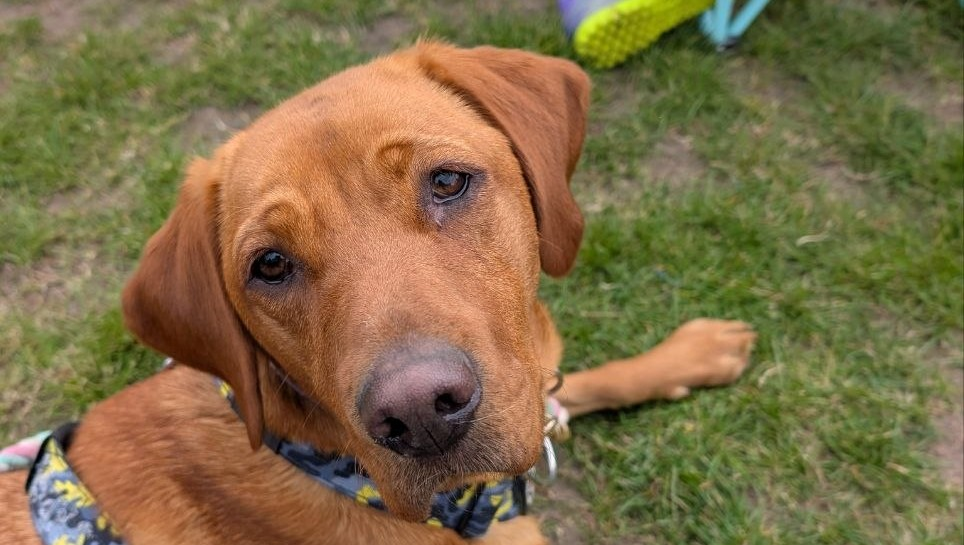
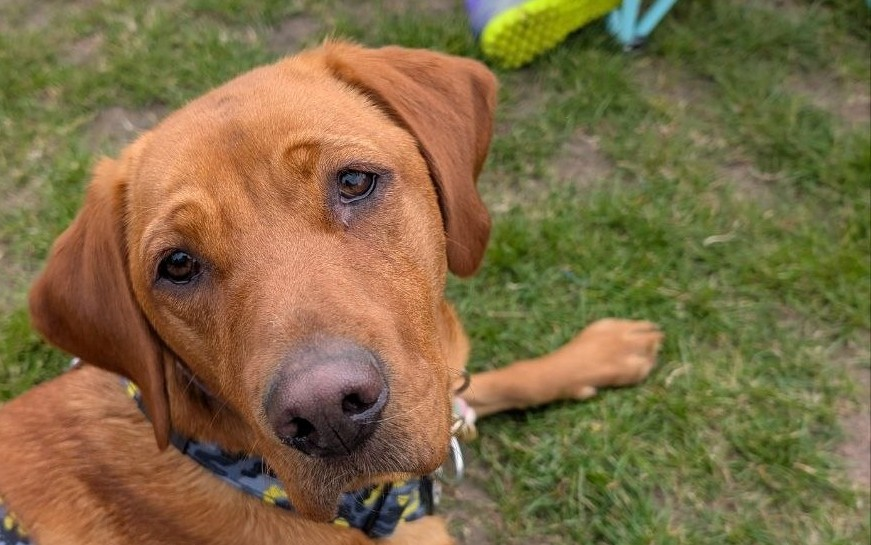
Mobile formatting updated on Rosa Page

diff --git a/styles.css b/styles.css
@@ -1237,6 +1237,19 @@ video {
   color: white;
   text-align: center;
 }
+@media (max-width: 991px) {
+  .rosaheader {
+    height: 50vh;
+    background:
+      linear-gradient(to left, rgba(0, 0, 0, 0.75), rgba(0, 0, 0, 0)),
+      url("images/Rosa_the_Labrador.jpg");
+    background-size: cover;
+    background-position: left;
+    color: white;
+    text-align: center;
+  }
+}
+
 /*..............*/
 /* Product card */
 /*..............*/
